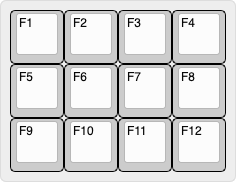
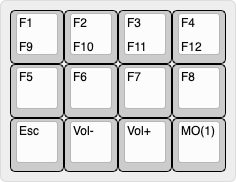
Modify keyboard layout to match current situation

diff --git a/README.md b/README.md
@@ -28,7 +28,7 @@ It is primarily designed to be a compact keyboard with support for 12 function k
 
 ## Layout
 
-📄 [layout/keyboard-layout.png](layout/keyboard-layout.png) (rev.3)
+📄 [layout/keyboard-layout.png](layout/keyboard-layout.png) (rev.4)
 
 ![keyboard layout](layout/keyboard-layout.png)
 
@@ -38,10 +38,10 @@ It is primarily designed to be a compact keyboard with support for 12 function k
 
 📄 [layout/keyboard-layout.rawdata.json](layout/keyboard-layout.rawdata.json)
 
-```js
-["F1","F2","F3","F4"],
+```json
+[{f:3},"F1\nF9","F2\nF10","F3\nF11","F4\nF12"],
 ["F5","F6","F7","F8"],
-["F9","F10","F11","F12"],
+["Esc","Vol-","Vol+","MO(1)"]
 ```
 
 - 🔗 [Keyboard Layout Editor](http://www.keyboard-layout-editor.com/)
